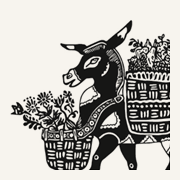
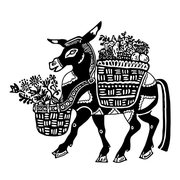
favicon一式を再作成(グレー調で視認性改善・48x48追加)
- favicon.ico/favicon-16x16.png/favicon-32x32.png/favicon-48x48.png/apple-touch-icon.pngを納品データに差し替え
- favicon.icoは提供されたファイルが16x16単体のみだったため、16/32/48の3サイズを内包する正しいマルチサイズicoとして再構築
- 16px・32px・48pxはグレー調+ぼかしで小サイズでの視認性を改善、apple-touch-iconは180pxでロゴ本来のくっきりした黒のディテールを維持
- 全7ページの<head>にfavicon-48x48.png用のlinkタグ(sizes="48x48")を追加

diff --git a/about.html b/about.html
@@ -19,6 +19,7 @@
 
   <link rel="icon" href="favicon.ico" sizes="any">
   <link rel="icon" type="image/png" sizes="32x32" href="favicon-32x32.png">
+  <link rel="icon" type="image/png" sizes="48x48" href="favicon-48x48.png">
   <link rel="icon" type="image/png" sizes="16x16" href="favicon-16x16.png">
   <link rel="apple-touch-icon" href="apple-touch-icon.png">
   <link rel="preconnect" href="https://fonts.googleapis.com">

diff --git a/access.html b/access.html
@@ -19,6 +19,7 @@
 
   <link rel="icon" href="favicon.ico" sizes="any">
   <link rel="icon" type="image/png" sizes="32x32" href="favicon-32x32.png">
+  <link rel="icon" type="image/png" sizes="48x48" href="favicon-48x48.png">
   <link rel="icon" type="image/png" sizes="16x16" href="favicon-16x16.png">
   <link rel="apple-touch-icon" href="apple-touch-icon.png">
   <link rel="preconnect" href="https://fonts.googleapis.com">

diff --git a/biosteam.html b/biosteam.html
@@ -19,6 +19,7 @@
 
   <link rel="icon" href="favicon.ico" sizes="any">
   <link rel="icon" type="image/png" sizes="32x32" href="favicon-32x32.png">
+  <link rel="icon" type="image/png" sizes="48x48" href="favicon-48x48.png">
   <link rel="icon" type="image/png" sizes="16x16" href="favicon-16x16.png">
   <link rel="apple-touch-icon" href="apple-touch-icon.png">
   <link rel="preconnect" href="https://fonts.googleapis.com">

diff --git a/datsumou.html b/datsumou.html
@@ -19,6 +19,7 @@
 
   <link rel="icon" href="favicon.ico" sizes="any">
   <link rel="icon" type="image/png" sizes="32x32" href="favicon-32x32.png">
+  <link rel="icon" type="image/png" sizes="48x48" href="favicon-48x48.png">
   <link rel="icon" type="image/png" sizes="16x16" href="favicon-16x16.png">
   <link rel="apple-touch-icon" href="apple-touch-icon.png">
   <link rel="preconnect" href="https://fonts.googleapis.com">

diff --git a/index.html b/index.html
@@ -19,6 +19,7 @@
 
   <link rel="icon" href="favicon.ico" sizes="any">
   <link rel="icon" type="image/png" sizes="32x32" href="favicon-32x32.png">
+  <link rel="icon" type="image/png" sizes="48x48" href="favicon-48x48.png">
   <link rel="icon" type="image/png" sizes="16x16" href="favicon-16x16.png">
   <link rel="apple-touch-icon" href="apple-touch-icon.png">
   <link rel="preconnect" href="https://fonts.googleapis.com">

diff --git a/matsuyani.html b/matsuyani.html
@@ -19,6 +19,7 @@
 
   <link rel="icon" href="favicon.ico" sizes="any">
   <link rel="icon" type="image/png" sizes="32x32" href="favicon-32x32.png">
+  <link rel="icon" type="image/png" sizes="48x48" href="favicon-48x48.png">
   <link rel="icon" type="image/png" sizes="16x16" href="favicon-16x16.png">
   <link rel="apple-touch-icon" href="apple-touch-icon.png">
   <link rel="preconnect" href="https://fonts.googleapis.com">

diff --git a/other.html b/other.html
@@ -19,6 +19,7 @@
 
   <link rel="icon" href="favicon.ico" sizes="any">
   <link rel="icon" type="image/png" sizes="32x32" href="favicon-32x32.png">
+  <link rel="icon" type="image/png" sizes="48x48" href="favicon-48x48.png">
   <link rel="icon" type="image/png" sizes="16x16" href="favicon-16x16.png">
   <link rel="apple-touch-icon" href="apple-touch-icon.png">
   <link rel="preconnect" href="https://fonts.googleapis.com">
